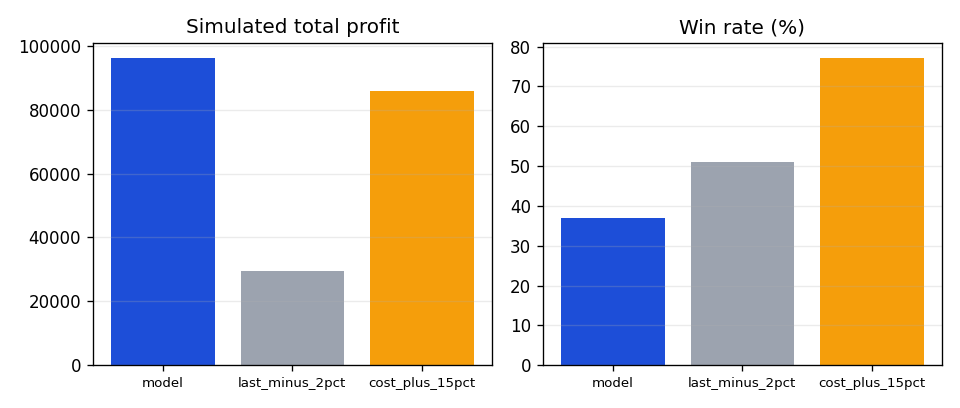
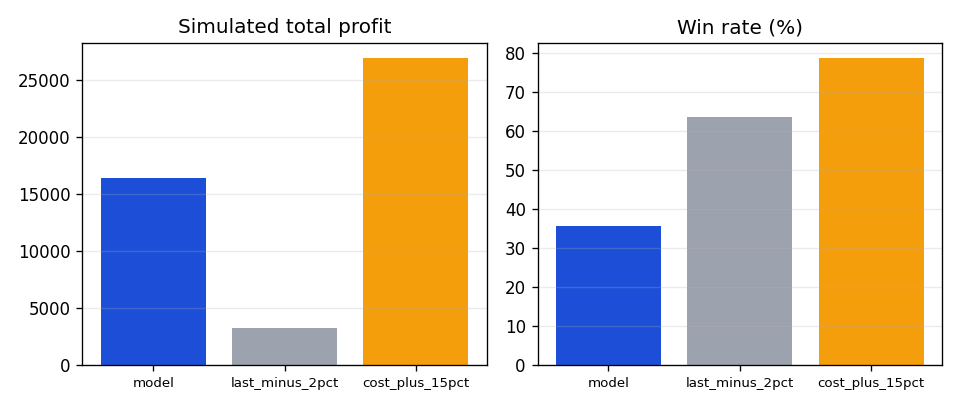
Live mode: ingest every 2h, initial live load job (AUTO_BACKFILL), train on real awards only once available

diff --git a/backend/app/services/training.py b/backend/app/services/training.py
@@ -19,21 +19,33 @@ from dibbs_ml.train import save_artifact, should_promote, train_from_awards
 log = logging.getLogger(__name__)
 
 
+REAL_ONLY_THRESHOLD = 500
+
+
 def load_awards_frame(db: Session) -> pd.DataFrame:
-    """award_history joined to solicitation context (by solicitation number + NSN) where available."""
+    """award_history joined to solicitation context (by solicitation number + NSN) where available.
+
+    Once there are >= REAL_ONLY_THRESHOLD real (non-synthetic) award rows, synthetic demo rows are excluded,
+    so a live deployment that started from the demo seed trains on real DIBBS data only.
+    """
+    n_real = db.execute(
+        select(func.count()).select_from(AwardHistory).where(AwardHistory.source != "synthetic")
+    ).scalar_one()
+    real_only = n_real >= REAL_ONLY_THRESHOLD
+    stmt = select(
+        AwardHistory.nsn,
+        AwardHistory.award_date,
+        AwardHistory.unit_price,
+        AwardHistory.quantity,
+        AwardHistory.unit_of_issue,
+        AwardHistory.awardee_cage,
+        AwardHistory.contract_number,
+        AwardHistory.solicitation_number,
+    )
+    if real_only:
+        stmt = stmt.where(AwardHistory.source != "synthetic")
     awards = pd.DataFrame(
-        db.execute(
-            select(
-                AwardHistory.nsn,
-                AwardHistory.award_date,
-                AwardHistory.unit_price,
-                AwardHistory.quantity,
-                AwardHistory.unit_of_issue,
-                AwardHistory.awardee_cage,
-                AwardHistory.contract_number,
-                AwardHistory.solicitation_number,
-            )
-        ).all(),
+        db.execute(stmt).all(),
         columns=["nsn", "award_date", "unit_price", "quantity", "unit_of_issue", "awardee_cage",
                  "contract_number", "solicitation_number"],
     )

diff --git a/backend/app/cli.py b/backend/app/cli.py
@@ -43,6 +43,7 @@ def bootstrap() -> None:
     """Container start-up: apply migrations, then seed the demo if AUTO_SEED=true and the DB is empty."""
     _setup_logging()
     migrate()
+    _maybe_queue_initial_live_load()
     if not get_settings().auto_seed:
         return
     from sqlalchemy import func, select
@@ -59,6 +60,33 @@ def bootstrap() -> None:
         run_seed()
     else:
         typer.echo(f"AUTO_SEED: {n} organization(s) present, skipping seed")
+
+
+def _maybe_queue_initial_live_load() -> None:
+    """AUTO_BACKFILL=true + CONNECTOR_MODE=live: queue the initial live load once (until real history exists)."""
+    s = get_settings()
+    if not (s.auto_backfill and s.connector_mode == "live"):
+        return
+    from sqlalchemy import func, select
+
+    from app.db import session_scope
+    from app.jobs.queue import enqueue
+    from app.jobs.tasks import initial_live_load_job
+    from app.models import AwardHistory, IngestCheckpoint
+
+    with session_scope() as db:
+        real = db.execute(
+            select(func.count()).select_from(AwardHistory).where(AwardHistory.source != "synthetic")
+        ).scalar_one()
+        queued = db.execute(
+            select(IngestCheckpoint).where(IngestCheckpoint.source == "initial_live_load")
+        ).scalar_one_or_none()
+        if real >= 500 or queued is not None:
+            typer.echo(f"AUTO_BACKFILL: skipping ({real} real award rows, previously queued={queued is not None})")
+            return
+        db.add(IngestCheckpoint(source="initial_live_load", key="queued", status="done"))
+    job = enqueue(initial_live_load_job, job_timeout=8 * 3600)
+    typer.echo(f"AUTO_BACKFILL: queued initial live load (job {job})")
 
 
 @cli.command("export-openapi")

diff --git a/backend/app/jobs/tasks.py b/backend/app/jobs/tasks.py
@@ -43,3 +43,28 @@ def send_quote_request_job(quote_request_id: int) -> dict:
 
     with session_scope() as db:
         return send_quote_request_by_id(db, quote_request_id)
+
+
+def initial_live_load_job() -> dict:
+    """First load for a live deployment: recent RFQs, PDF procurement history, recent awards, then train.
+
+    Bounded so it finishes in roughly an hour at 1 request/second; later runs of the backfill resume
+    from checkpoints.
+    """
+    from app.config import get_settings
+    from app.pipelines.backfill import run_backfill
+    from app.pipelines.ingest import run_daily_ingest
+    from app.services.training import train_and_maybe_promote
+
+    out: dict = {}
+    with session_scope() as db:
+        out["ingest"] = run_daily_ingest(db, mode="live")
+    with session_scope() as db:
+        out["backfill"] = run_backfill(
+            db, get_settings().default_fsc_watchlist, date(2023, 1, 1), date.today(), mode="live",
+            max_pdfs=800, max_award_dates=2, max_award_pages=5, max_nsn_searches=5,
+        )
+    with session_scope() as db:
+        out["train"] = train_and_maybe_promote(db, as_of=date.today(), force_promote=True)
+    log.info("initial live load finished: %s", {k: v.get("status", v.get("promoted")) for k, v in out.items()})
+    return out

diff --git a/backend/app/jobs/scheduler.py b/backend/app/jobs/scheduler.py
@@ -1,7 +1,8 @@
 """APScheduler process: enqueues the recurring jobs. `python -m app.jobs.scheduler`.
 
 Schedules (America/New_York):
-  * 06:00 daily      - DIBBS RFQ ingest
+  * every 2 h, 06-20 - DIBBS RFQ ingest (DIBBS posts each day's files the next day, at varying times;
+                       checkpoints make repeat runs cheap: only new files are processed)
   * 07:30 daily      - award labeling (newly posted awards)
   * every hour (:15) - email follow-ups / no_response marking
   * Sunday 03:00     - retrain, evaluate, promote if better
@@ -21,7 +22,7 @@ from app.jobs.queue import enqueue
 TZ = "America/New_York"
 
 SCHEDULE = [
-    ("daily_ingest", tasks.daily_ingest_job, CronTrigger(hour=6, minute=0, timezone=TZ)),
+    ("daily_ingest", tasks.daily_ingest_job, CronTrigger(hour="6-20/2", minute=0, timezone=TZ)),
     ("award_labeling", tasks.award_labeling_job, CronTrigger(hour=7, minute=30, timezone=TZ)),
     ("followups", tasks.followups_job, CronTrigger(minute=15, timezone=TZ)),
     ("retrain", tasks.retrain_job, CronTrigger(day_of_week="sun", hour=3, minute=0, timezone=TZ)),

diff --git a/backend/tests/test_deploy.py b/backend/tests/test_deploy.py
@@ -28,3 +28,21 @@ def test_model_loads_from_database_when_file_is_missing(db):
     pricing.clear_model_cache()
     loaded_run, model = pricing.get_active_model(db)
     assert loaded_run.id == run.id and model is not None
+
+
+def test_training_ignores_synthetic_rows_once_real_history_exists(db):
+    from datetime import date
+
+    from app.models import AwardHistory
+    from app.services.training import REAL_ONLY_THRESHOLD, load_awards_frame
+
+    def rows(source, n, prefix):
+        return [AwardHistory(nsn=f"530501{prefix}{i:05d}", award_date=date(2025, 1, 1), contract_number=f"C{prefix}{i}",
+                             quantity=1, unit_price=1.0, source=source) for i in range(n)]
+
+    db.add_all(rows("synthetic", 50, "9") + rows("rfq_pdf_history", REAL_ONLY_THRESHOLD - 1, "1"))
+    db.commit()
+    assert set(load_awards_frame(db)["contract_number"].str[1]) == {"9", "1"}  # not enough real data yet
+    db.add_all(rows("rfq_pdf_history", 1, "2"))
+    db.commit()
+    assert "9" not in set(load_awards_frame(db)["contract_number"].str[1])

diff --git a/backend/app/jobs/queue.py b/backend/app/jobs/queue.py
@@ -28,11 +28,11 @@ def get_queue():
         return None
 
 
-def enqueue(func: Callable, *args, **kwargs) -> str:
+def enqueue(func: Callable, *args, job_timeout: int | None = None, **kwargs) -> str:
     """Returns a job id ('inline-...' when run in a local thread)."""
     q = get_queue()
     if q is not None:
-        job = q.enqueue(func, *args, **kwargs)
+        job = q.enqueue(func, *args, job_timeout=job_timeout or q._default_timeout, **kwargs)
         return job.id
 
     def _run() -> None:

diff --git a/backend/app/config.py b/backend/app/config.py
@@ -73,6 +73,8 @@ class Settings(BaseSettings):
 
     # Deployment: seed the demo on first boot when the database has no organizations.
     auto_seed: bool = False
+    # Live mode: on first boot, queue an initial load (recent RFQs + PDF history + train) on the worker.
+    auto_backfill: bool = False
 
     @field_validator("database_url")
     @classmethod

diff --git a/ml/reports/latest_model.md b/ml/reports/latest_model.md
@@ -2,7 +2,7 @@
 
 Model run **#1**: **promoted** to active (forced (no comparable active model)).
 
-_Trained on 5,316 award rows, of which 5,316 are the synthetic demo history from `make seed`. Metrics on synthetic data show the pipeline works; they are not evidence about real DIBBS prices._
+_Trained on 1,636 award rows, of which 1,636 are the synthetic demo history from `make seed`. Metrics on synthetic data show the pipeline works; they are not evidence about real DIBBS prices._
 
 ## Data and time windows
 
@@ -10,9 +10,9 @@ Time-based split, never random: train on everything up to T-6 months, conformal 
 
 | Window | Dates | Rows |
 |---|---|---|
-| Train | 2023-01-01 .. 2026-04-10 | 4,617 |
-| Calibrate | 2026-04-10 .. 2026-07-10 | 381 |
-| Test | 2026-07-10 .. 2026-10-10 | 318 |
+| Train | 2023-01-02 .. 2026-04-09 | 1,414 |
+| Calibrate | 2026-04-09 .. 2026-07-09 | 115 |
+| Test | 2026-07-09 .. 2026-10-09 | 107 |
 
 
 Cold-start share of test rows (no prior award for the NSN): 0.0%.
@@ -23,11 +23,11 @@ Target: log(winning unit price / reference price). Pinball loss is averaged over
 
 | Metric | LightGBM + conformal | LightGBM (uncalibrated) | Baseline |
 |---|---|---|---|
-| Mean pinball loss | **0.0591** | 0.0598 | 0.0878 |
-| MAPE of median | 17.2% | 16.9% | 26.7% |
-| Median abs. % error | 14.4% | 14.9% | 20.7% |
-| 80% interval coverage | 78.3% | 69.2% | 78.0% |
-| 90% interval coverage | 89.0% | 83.3% | 87.7% |
+| Mean pinball loss | **0.0512** | 0.0513 | 0.0758 |
+| MAPE of median | 14.8% | 15.3% | 20.8% |
+| Median abs. % error | 12.9% | 12.0% | 13.9% |
+| 80% interval coverage | 84.1% | 72.0% | 81.3% |
+| 90% interval coverage | 90.7% | 82.2% | 88.8% |
 
 ![Pinball loss by quantile](pinball.png)
 
@@ -35,9 +35,9 @@ Target: log(winning unit price / reference price). Pinball loss is averaged over
 
 | Level | 0.05 | 0.10 | 0.20 | 0.30 | 0.40 | 0.50 | 0.60 | 0.70 | 0.80 | 0.90 | 0.95 |
 |---|---|---|---|---|---|---|---|---|---|---|---|
-| Model | 0.05 | 0.12 | 0.22 | 0.31 | 0.39 | 0.49 | 0.61 | 0.70 | 0.81 | 0.91 | 0.94 |
-| Before conformal | 0.07 | 0.16 | 0.24 | 0.31 | 0.39 | 0.47 | 0.57 | 0.64 | 0.73 | 0.85 | 0.91 |
-| Baseline | 0.06 | 0.11 | 0.22 | 0.32 | 0.45 | 0.54 | 0.63 | 0.72 | 0.81 | 0.89 | 0.94 |
+| Model | 0.06 | 0.07 | 0.19 | 0.26 | 0.36 | 0.44 | 0.54 | 0.71 | 0.86 | 0.92 | 0.96 |
+| Before conformal | 0.09 | 0.14 | 0.23 | 0.33 | 0.45 | 0.52 | 0.60 | 0.71 | 0.79 | 0.86 | 0.92 |
+| Baseline | 0.04 | 0.07 | 0.13 | 0.18 | 0.29 | 0.42 | 0.55 | 0.69 | 0.79 | 0.88 | 0.93 |
 
 ![Coverage](coverage.png)
 
@@ -47,18 +47,18 @@ For every test line, 5 bids are sampled around the reference price (b = ref x ex
 
 | Predicted bucket | Mean predicted | Observed | Count |
 |---|---|---|---|
-| 0.0-0.1 | 0.045 | 0.034 | 323 |
-| 0.1-0.2 | 0.146 | 0.085 | 164 |
-| 0.2-0.3 | 0.252 | 0.190 | 100 |
-| 0.3-0.4 | 0.354 | 0.325 | 120 |
-| 0.4-0.5 | 0.446 | 0.479 | 119 |
-| 0.5-0.6 | 0.549 | 0.596 | 99 |
-| 0.6-0.7 | 0.648 | 0.674 | 95 |
-| 0.7-0.8 | 0.752 | 0.719 | 135 |
-| 0.8-0.9 | 0.858 | 0.865 | 141 |
-| 0.9-1.0 | 0.963 | 0.966 | 294 |
+| 0.0-0.1 | 0.043 | 0.000 | 75 |
+| 0.1-0.2 | 0.150 | 0.140 | 43 |
+| 0.2-0.3 | 0.250 | 0.191 | 47 |
+| 0.3-0.4 | 0.348 | 0.351 | 57 |
+| 0.4-0.5 | 0.456 | 0.619 | 21 |
+| 0.5-0.6 | 0.550 | 0.636 | 33 |
+| 0.6-0.7 | 0.649 | 0.719 | 32 |
+| 0.7-0.8 | 0.761 | 0.707 | 41 |
+| 0.8-0.9 | 0.852 | 0.867 | 75 |
+| 0.9-1.0 | 0.976 | 0.991 | 111 |
 
-Brier score 0.1213, expected calibration error 0.0255 (baseline: Brier 0.1827, ECE 0.0315).
+Brier score 0.1179, expected calibration error 0.0377 (baseline: Brier 0.1729, ECE 0.0597).
 
 ![P(win) calibration](calibration.png)
 
@@ -68,9 +68,9 @@ Assumption: landed cost = winning price x U(0.6, 0.95); bid wins iff bid < winni
 
 | Policy | Bids | Wins | Win rate | Total profit | Profit per bid | Wins below cost |
 |---|---|---|---|---|---|---|
-| model | 310 | 115 | 37.1% | $96,023 | $309.75 | 0 |
-| last_minus_2pct | 318 | 162 | 50.9% | $29,551 | $92.93 | 72 |
-| cost_plus_15pct | 318 | 245 | 77.0% | $85,657 | $269.36 | 0 |
+| model | 107 | 38 | 35.5% | $16,378 | $153.06 | 0 |
+| last_minus_2pct | 107 | 68 | 63.6% | $3,250 | $30.37 | 28 |
+| cost_plus_15pct | 107 | 84 | 78.5% | $26,889 | $251.30 | 0 |
 
 ![Backtest](backtest.png)
 
@@ -78,21 +78,21 @@ Assumption: landed cost = winning price x U(0.6, 0.95); bid wins iff bid < winni
 
 | Feature | Importance |
 |---|---|
-| log_last_to_dod | 17.5% |
-| log_qty_vs_last | 11.5% |
-| qty_rel_median | 11.0% |
-| f_max | 8.0% |
-| f_last3_median | 7.9% |
-| f_min | 6.9% |
-| trend_per_year | 5.0% |
-| volatility | 4.6% |
-| log_quantity | 3.9% |
-| log_ref_price | 3.6% |
-| inflation_change | 3.6% |
-| days_since_last_award | 2.9% |
-| incumbent_share | 2.4% |
-| fsc | 2.2% |
-| first_article | 2.0% |
+| log_qty_vs_last | 12.8% |
+| qty_rel_median | 9.2% |
+| f_min | 8.7% |
+| f_max | 7.6% |
+| log_last_to_dod | 7.0% |
+| trend_per_year | 6.8% |
+| volatility | 6.3% |
+| f_last3_median | 5.9% |
+| log_quantity | 5.4% |
+| inflation_change | 4.8% |
+| days_since_last_award | 4.7% |
+| log_ref_price | 4.5% |
+| n_prior_awards | 3.4% |
+| incumbent_share | 2.9% |
+| type_code | 1.8% |
 
 ## Caveats
 
